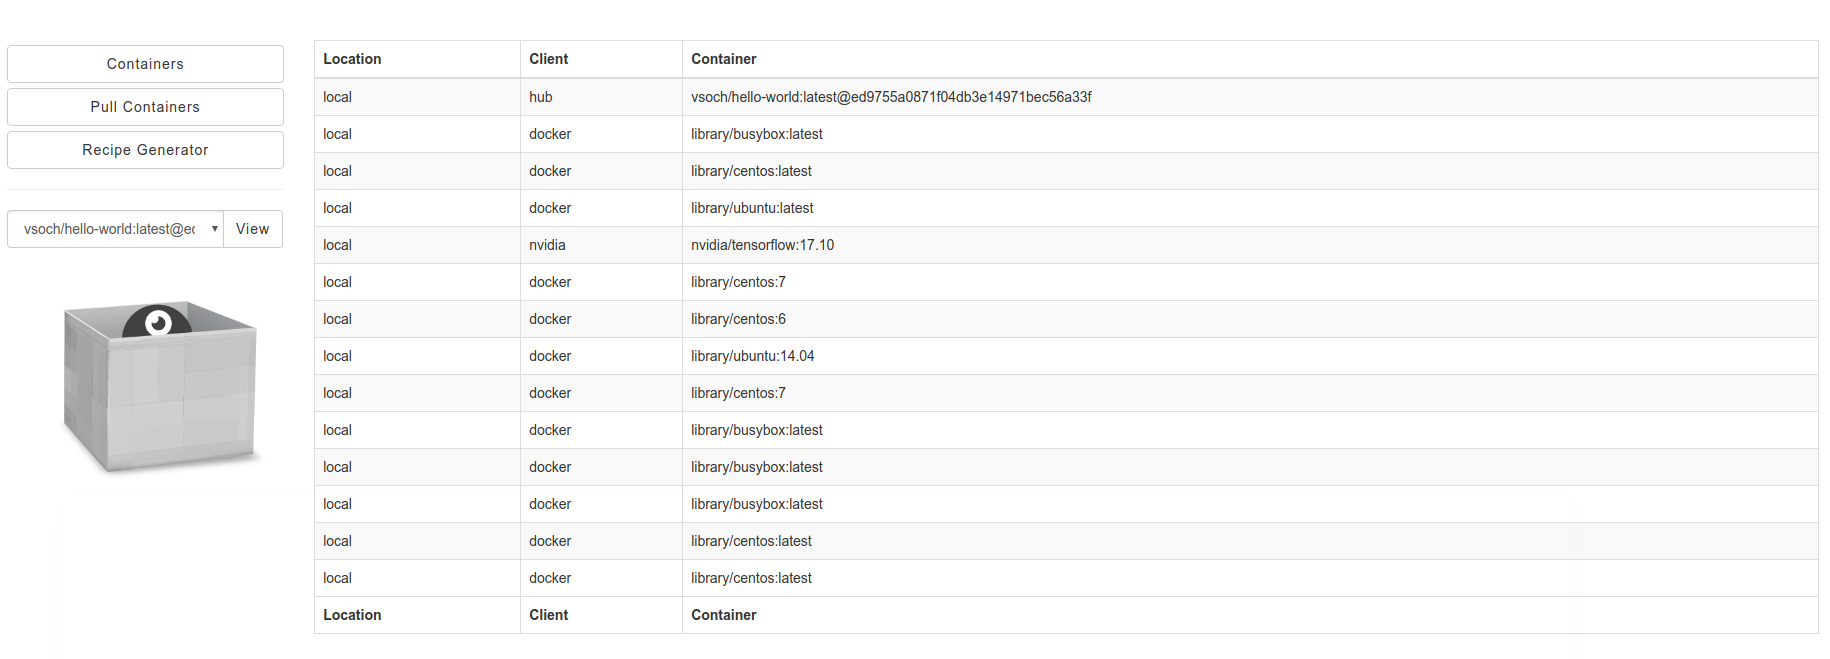
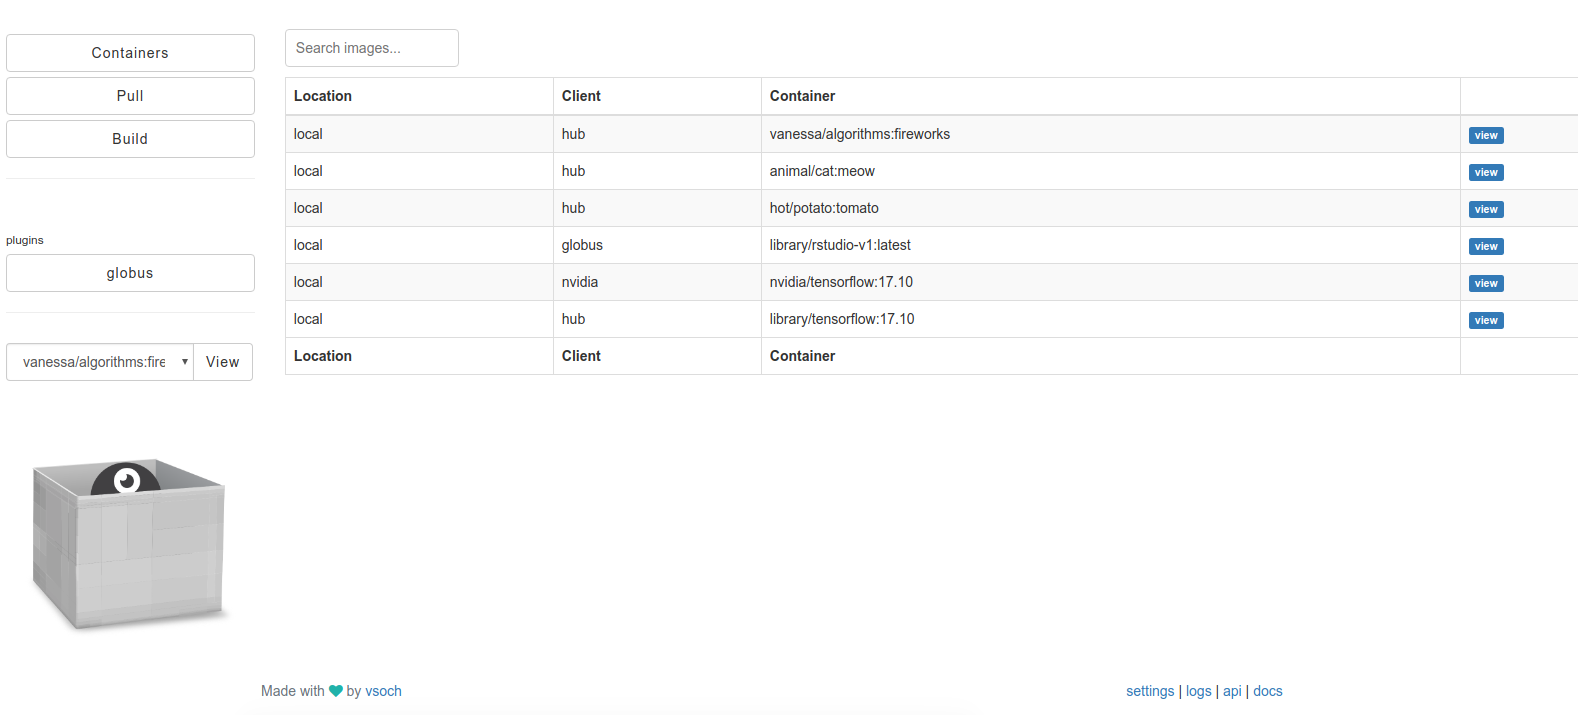
updating main view

diff --git a/tunel/templates/main/index.html b/tunel/templates/main/index.html
@@ -27,6 +27,7 @@
                 <th>Location</th>
                 <th>Client</th>
                 <th>Container</th>
+                <th></th>
             </tr>
         </thead>
         <tfoot>
@@ -34,6 +35,7 @@
                 <th>Location</th>
                 <th>Client</th>
                 <th>Container</th>
+                <th></th>
             </tr>
         </tfoot>
         <tbody>
@@ -44,6 +46,8 @@
                 <td class="change-uri" 
                     style="cursor:text" 
                     data-search="{{ image.uri }}" contenteditable>{{ image.uri }}</td>
+                <td><a href="/container/view?uri={{ image.uri }}">
+                    <span class="label label-primary">view</span></td>
             </tr>
             {% endfor %}
         </tbody>
